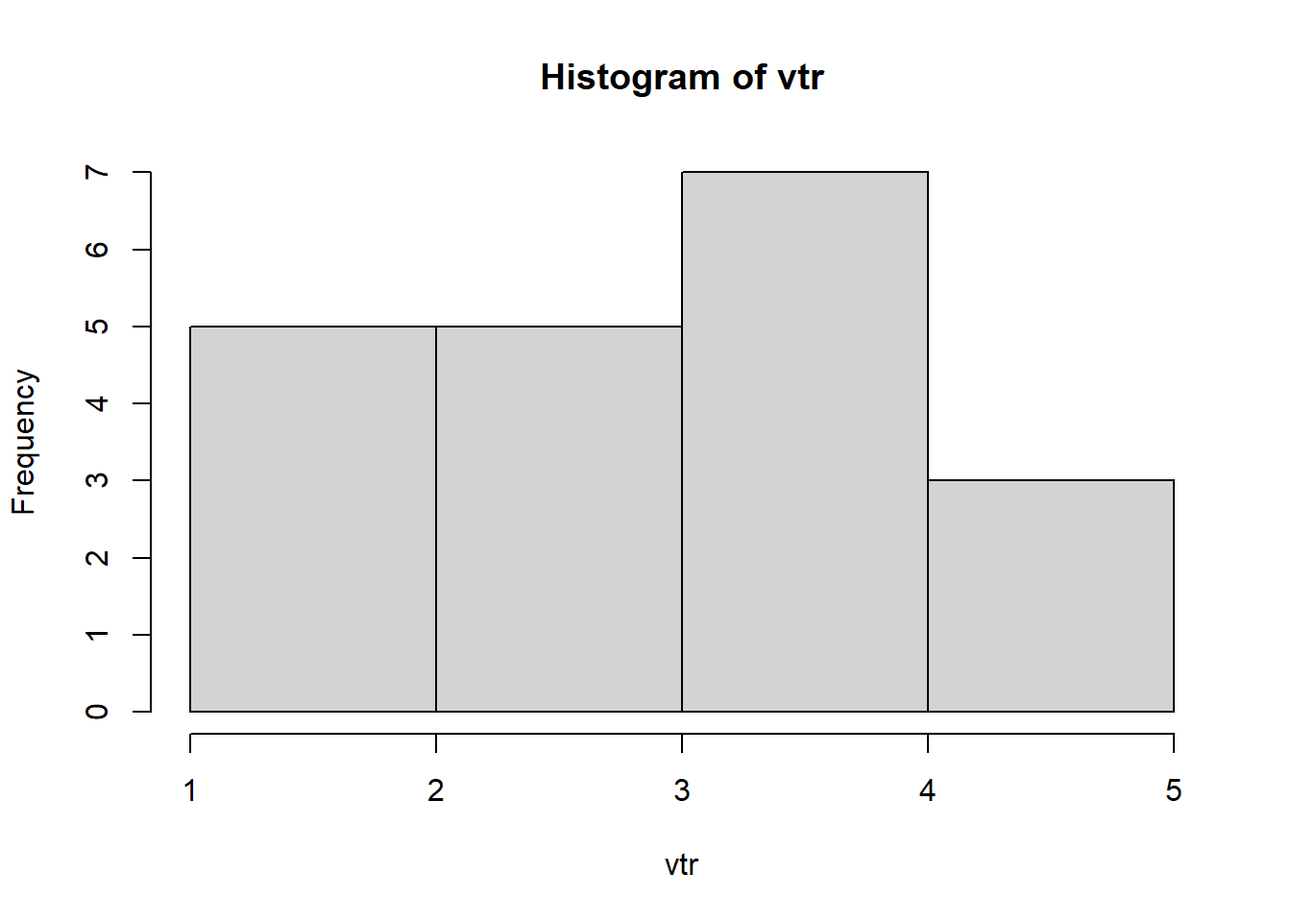
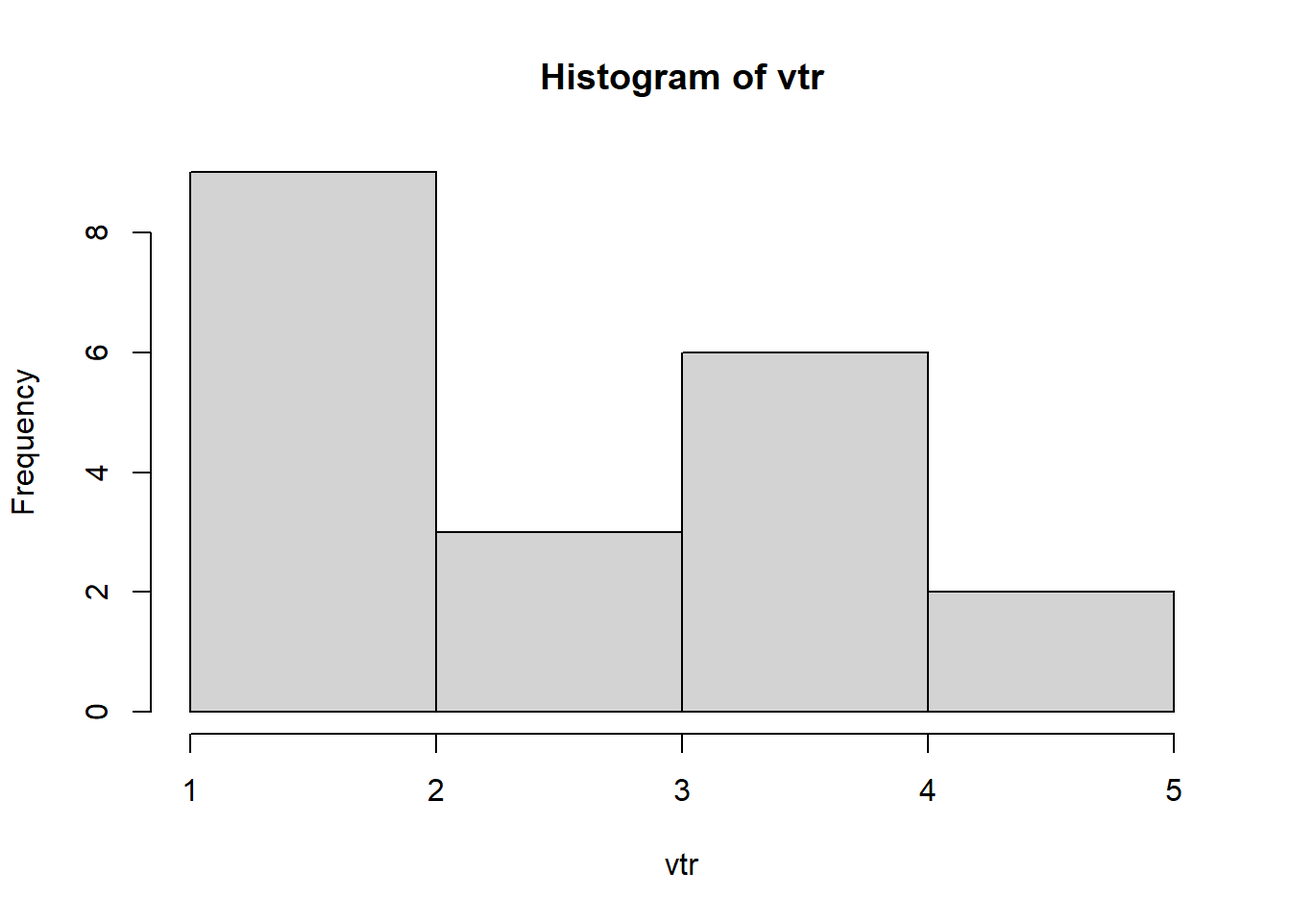
Chapters order changed

diff --git a/chapter3.html b/chapter3.html
@@ -31,8 +31,8 @@
   <meta name="apple-mobile-web-app-status-bar-style" content="black" />
   
   <link rel="shortcut icon" href="favicon.ico" type="image/x-icon" />
-<link rel="prev" href="-e-.html"/>
-
+<link rel="prev" href="chapter2.html"/>
+<link rel="next" href="-e-.html"/>
 <script src="libs/header-attrs-2.7/header-attrs.js"></script>
 <script src="libs/jquery-2.2.3/jquery.min.js"></script>
 <link href="libs/gitbook-2.6.7/css/style.css" rel="stylesheet" />
@@ -190,7 +190,6 @@ code span.wa { color: #8f5902; font-weight: bold; font-style: italic; } /* Warni
 </ul></li>
 <li class="chapter" data-level="2.5" data-path="chapter2.html"><a href="chapter2.html#chapter245"><i class="fa fa-check"></i><b>2.5</b> Введення-виведння даних</a></li>
 </ul></li>
-<li class="chapter" data-level="" data-path="-e-.html"><a href="-e-.html"><i class="fa fa-check"></i>Джeрела</a></li>
 <li class="chapter" data-level="3" data-path="chapter3.html"><a href="chapter3.html"><i class="fa fa-check"></i><b>3</b> Основи роботи з даними в R</a>
 <ul>
 <li class="chapter" data-level="" data-path="chapter3.html"><a href="chapter3.html#план-2"><i class="fa fa-check"></i>План</a></li>
@@ -202,6 +201,7 @@ code span.wa { color: #8f5902; font-weight: bold; font-style: italic; } /* Warni
 <li class="chapter" data-level="3.2.3" data-path="chapter3.html"><a href="chapter3.html#chapter323"><i class="fa fa-check"></i><b>3.2.3</b> Операції над векторами</a></li>
 </ul></li>
 </ul></li>
+<li class="chapter" data-level="" data-path="-e-.html"><a href="-e-.html"><i class="fa fa-check"></i>Джeрела</a></li>
 <li class="divider"></li>
 <li><a href="https://github.com/rstudio/bookdown" target="blank">Створено з bookdown</a></li>
 <li><a href="https://dataclass.org.ua" target="blank">Сайт проекту DataCalss</a></li>  
@@ -258,59 +258,37 @@ code span.wa { color: #8f5902; font-weight: bold; font-style: italic; } /* Warni
 <p>Вектор - базовий тип даних у <code>R</code>, що дозволяє записати колекцію елементів одного типу за допомогою <code>c()</code> або без нього, якщо це послідовність значень.</p>
 <p><em>Примітка. По суті функція <code>c()</code> дозволяє об’єднати кілька векторів.</em></p>
 <p>Розглянемо для прикладу звичайну змінну <code>x</code>:</p>
-<div class="sourceCode" id="cb146"><pre class="sourceCode r"><code class="sourceCode r"><span id="cb146-1"><a href="chapter3.html#cb146-1" aria-hidden="true" tabindex="-1"></a>x <span class="ot">&lt;-</span> <span class="dv">10</span></span></code></pre></div>
+<div class="sourceCode" id="cb145"><pre class="sourceCode r"><code class="sourceCode r"><span id="cb145-1"><a href="chapter3.html#cb145-1" aria-hidden="true" tabindex="-1"></a>x <span class="ot">&lt;-</span> <span class="dv">10</span></span></code></pre></div>
 <p>По своїй суті <code>x</code> у даному випадку є вектором, що складається з одного значення <code>10</code>. Ми можемо також записати кілька елементів у змінну <code>x</code>:</p>
-<div class="sourceCode" id="cb147"><pre class="sourceCode r"><code class="sourceCode r"><span id="cb147-1"><a href="chapter3.html#cb147-1" aria-hidden="true" tabindex="-1"></a>x <span class="ot">&lt;-</span> <span class="fu">c</span>(<span class="dv">1</span>, <span class="dv">2</span>, <span class="fl">2.5</span>, <span class="dv">3</span>)</span>
-<span id="cb147-2"><a href="chapter3.html#cb147-2" aria-hidden="true" tabindex="-1"></a>x</span></code></pre></div>
+<div class="sourceCode" id="cb146"><pre class="sourceCode r"><code class="sourceCode r"><span id="cb146-1"><a href="chapter3.html#cb146-1" aria-hidden="true" tabindex="-1"></a>x <span class="ot">&lt;-</span> <span class="fu">c</span>(<span class="dv">1</span>, <span class="dv">2</span>, <span class="fl">2.5</span>, <span class="dv">3</span>)</span>
+<span id="cb146-2"><a href="chapter3.html#cb146-2" aria-hidden="true" tabindex="-1"></a>x</span></code></pre></div>
 <pre><code>## [1] 1.0 2.0 2.5 3.0</code></pre>
 <p>Елементами вектора можуть бути значення будь якого типу: <code>numeric</code>, <code>character</code>, <code>logical</code> тощо:</p>
-<div class="sourceCode" id="cb149"><pre class="sourceCode r"><code class="sourceCode r"><span id="cb149-1"><a href="chapter3.html#cb149-1" aria-hidden="true" tabindex="-1"></a>v1 <span class="ot">&lt;-</span> <span class="fu">c</span>(<span class="dv">1</span>, <span class="dv">3</span>, <span class="dv">4</span>, <span class="dv">6</span>, <span class="dv">7</span>)</span>
-<span id="cb149-2"><a href="chapter3.html#cb149-2" aria-hidden="true" tabindex="-1"></a>v2 <span class="ot">&lt;-</span> <span class="fu">c</span>(T, F, F, T, F)</span>
-<span id="cb149-3"><a href="chapter3.html#cb149-3" aria-hidden="true" tabindex="-1"></a>v3 <span class="ot">&lt;-</span> <span class="fu">c</span>(<span class="st">&quot;Hello&quot;</span>, <span class="st">&quot;my&quot;</span>, <span class="st">&quot;friend&quot;</span>, <span class="st">&quot;!&quot;</span>)</span></code></pre></div>
+<div class="sourceCode" id="cb148"><pre class="sourceCode r"><code class="sourceCode r"><span id="cb148-1"><a href="chapter3.html#cb148-1" aria-hidden="true" tabindex="-1"></a>v1 <span class="ot">&lt;-</span> <span class="fu">c</span>(<span class="dv">1</span>, <span class="dv">3</span>, <span class="dv">4</span>, <span class="dv">6</span>, <span class="dv">7</span>)</span>
+<span id="cb148-2"><a href="chapter3.html#cb148-2" aria-hidden="true" tabindex="-1"></a>v2 <span class="ot">&lt;-</span> <span class="fu">c</span>(T, F, F, T, F)</span>
+<span id="cb148-3"><a href="chapter3.html#cb148-3" aria-hidden="true" tabindex="-1"></a>v3 <span class="ot">&lt;-</span> <span class="fu">c</span>(<span class="st">&quot;Hello&quot;</span>, <span class="st">&quot;my&quot;</span>, <span class="st">&quot;friend&quot;</span>, <span class="st">&quot;!&quot;</span>)</span></code></pre></div>
 <p>Елементами вектора також послідовності, створені на за допомогою функцій <code>rep()</code>, <code>seq()</code> та оператора <code>:</code>:</p>
-<div class="sourceCode" id="cb150"><pre class="sourceCode r"><code class="sourceCode r"><span id="cb150-1"><a href="chapter3.html#cb150-1" aria-hidden="true" tabindex="-1"></a>vtr <span class="ot">&lt;-</span>  <span class="dv">2</span><span class="sc">:</span><span class="dv">7</span></span>
-<span id="cb150-2"><a href="chapter3.html#cb150-2" aria-hidden="true" tabindex="-1"></a>vtr</span></code></pre></div>
+<div class="sourceCode" id="cb149"><pre class="sourceCode r"><code class="sourceCode r"><span id="cb149-1"><a href="chapter3.html#cb149-1" aria-hidden="true" tabindex="-1"></a>vtr <span class="ot">&lt;-</span>  <span class="dv">2</span><span class="sc">:</span><span class="dv">7</span></span>
+<span id="cb149-2"><a href="chapter3.html#cb149-2" aria-hidden="true" tabindex="-1"></a>vtr</span></code></pre></div>
 <pre><code>## [1] 2 3 4 5 6 7</code></pre>
-<div class="sourceCode" id="cb152"><pre class="sourceCode r"><code class="sourceCode r"><span id="cb152-1"><a href="chapter3.html#cb152-1" aria-hidden="true" tabindex="-1"></a>vtr <span class="ot">&lt;-</span> <span class="dv">7</span><span class="sc">:</span><span class="dv">2</span></span>
-<span id="cb152-2"><a href="chapter3.html#cb152-2" aria-hidden="true" tabindex="-1"></a>vtr</span></code></pre></div>
+<div class="sourceCode" id="cb151"><pre class="sourceCode r"><code class="sourceCode r"><span id="cb151-1"><a href="chapter3.html#cb151-1" aria-hidden="true" tabindex="-1"></a>vtr <span class="ot">&lt;-</span> <span class="dv">7</span><span class="sc">:</span><span class="dv">2</span></span>
+<span id="cb151-2"><a href="chapter3.html#cb151-2" aria-hidden="true" tabindex="-1"></a>vtr</span></code></pre></div>
 <pre><code>## [1] 7 6 5 4 3 2</code></pre>
 <p>Якщо є потреба об’єднати кілька векторів, скористайтеся функцією <code>c()</code>:</p>
-<div class="sourceCode" id="cb154"><pre class="sourceCode r"><code class="sourceCode r"><span id="cb154-1"><a href="chapter3.html#cb154-1" aria-hidden="true" tabindex="-1"></a>x <span class="ot">&lt;-</span> <span class="dv">2</span><span class="sc">:</span><span class="dv">3</span></span>
-<span id="cb154-2"><a href="chapter3.html#cb154-2" aria-hidden="true" tabindex="-1"></a>y <span class="ot">&lt;-</span> <span class="fu">c</span>(<span class="dv">4</span>,<span class="dv">6</span>,<span class="dv">9</span>)</span>
-<span id="cb154-3"><a href="chapter3.html#cb154-3" aria-hidden="true" tabindex="-1"></a>z <span class="ot">&lt;-</span> <span class="fu">c</span>(x, y, <span class="dv">10</span><span class="sc">:</span><span class="dv">12</span>, <span class="dv">100</span>)</span>
-<span id="cb154-4"><a href="chapter3.html#cb154-4" aria-hidden="true" tabindex="-1"></a>z</span></code></pre></div>
+<div class="sourceCode" id="cb153"><pre class="sourceCode r"><code class="sourceCode r"><span id="cb153-1"><a href="chapter3.html#cb153-1" aria-hidden="true" tabindex="-1"></a>x <span class="ot">&lt;-</span> <span class="dv">2</span><span class="sc">:</span><span class="dv">3</span></span>
+<span id="cb153-2"><a href="chapter3.html#cb153-2" aria-hidden="true" tabindex="-1"></a>y <span class="ot">&lt;-</span> <span class="fu">c</span>(<span class="dv">4</span>,<span class="dv">6</span>,<span class="dv">9</span>)</span>
+<span id="cb153-3"><a href="chapter3.html#cb153-3" aria-hidden="true" tabindex="-1"></a>z <span class="ot">&lt;-</span> <span class="fu">c</span>(x, y, <span class="dv">10</span><span class="sc">:</span><span class="dv">12</span>, <span class="dv">100</span>)</span>
+<span id="cb153-4"><a href="chapter3.html#cb153-4" aria-hidden="true" tabindex="-1"></a>z</span></code></pre></div>
 <pre><code>## [1]   2   3   4   6   9  10  11  12 100</code></pre>
 <p>Переглянути коротку описову статистику по вектору можна за допомогою функції <strong><code>summary()</code></strong>:</p>
-<div class="sourceCode" id="cb156"><pre class="sourceCode r"><code class="sourceCode r"><span id="cb156-1"><a href="chapter3.html#cb156-1" aria-hidden="true" tabindex="-1"></a><span class="fu">summary</span>(z)</span></code></pre></div>
+<div class="sourceCode" id="cb155"><pre class="sourceCode r"><code class="sourceCode r"><span id="cb155-1"><a href="chapter3.html#cb155-1" aria-hidden="true" tabindex="-1"></a><span class="fu">summary</span>(z)</span></code></pre></div>
 <pre><code>##    Min. 1st Qu.  Median    Mean 3rd Qu.    Max. 
 ##    2.00    4.00    9.00   17.44   11.00  100.00</code></pre>
 </div>
 <div id="chapter323" class="section level3" number="3.2.3">
 <h3><span class="header-section-number">3.2.3</span> Операції над векторами</h3>
 
-<div id="refs" class="references csl-bib-body hanging-indent">
-<div id="ref-Anaconda-site" class="csl-entry">
-<em>Anaconda. The World’s Most Popular Data Science Platform</em>. 2021. 206 379 Broadway Ave., Suite 310 New York, NY 10013, USA: Anaconda Inc. <a href="https://www.anaconda.com/">https://www.anaconda.com/</a>.
-</div>
-<div id="ref-google-collab" class="csl-entry">
-<em>Google Colaboratory</em>. 2021. Google LLC. <a href="https://colab.research.google.com/">https://colab.research.google.com/</a>.
-</div>
-<div id="ref-R-base" class="csl-entry">
-R Core Team. 2020. <em>R: A Language and Environment for Statistical Computing</em>. Vienna, Austria: R Foundation for Statistical Computing. <a href="https://www.R-project.org/">https://www.R-project.org/</a>.
-</div>
-<div id="ref-R-studio-site" class="csl-entry">
-<em>RStudio Official Website</em>. 2021. 250 Northern Ave, Boston, MA 02210: RStudio, PBC. <a href="https://rstudio.com/">https://rstudio.com/</a>.
-</div>
-<div id="ref-vs-code" class="csl-entry">
-<em>Visual Studio Code</em>. 2021. Microsoft. <a href="https://code.visualstudio.com/">https://code.visualstudio.com/</a>.
-</div>
-<div id="ref-visual-studio" class="csl-entry">
-<em>Visual Studio Community Edition</em>. 2021. Microsoft. <a href="https://visualstudio.microsoft.com/">https://visualstudio.microsoft.com/</a>.
-</div>
-<div id="ref-R-stats-book" class="csl-entry">
-А.Б. Шипунов, Е.М. Балдин, П.А. Волкова, А.И. Коробейников, С.А. Назарова, С.В. Петров, В.Г. Суфиянов. 2012. <em>Наглядная статистика. Используем r!</em> Москва, Росія: ДМК Пресс.
-</div>
-</div>
+<div class="sourceCode" id="cb157"><pre class="sourceCode r"><code class="sourceCode r"><span id="cb157-1"><a href="chapter3.html#cb157-1" aria-hidden="true" tabindex="-1"></a><span class="fu">Sys.setlocale</span>(<span class="st">&quot;LC_CTYPE&quot;</span>, <span class="st">&quot;ukrainian&quot;</span>)</span></code></pre></div>
 </div>
 </div>
 </div>
@@ -319,8 +297,8 @@ R Core Team. 2020. <em>R: A Language and Environment for Statistical Computing</
           </div>
         </div>
       </div>
-<a href="-e-.html" class="navigation navigation-prev navigation-unique" aria-label="Previous page"><i class="fa fa-angle-left"></i></a>
-
+<a href="chapter2.html" class="navigation navigation-prev " aria-label="Previous page"><i class="fa fa-angle-left"></i></a>
+<a href="-e-.html" class="navigation navigation-next " aria-label="Next page"><i class="fa fa-angle-right"></i></a>
     </div>
   </div>
 <script src="libs/gitbook-2.6.7/js/app.min.js"></script>

diff --git a/chapter2.html b/chapter2.html
@@ -32,7 +32,7 @@
   
   <link rel="shortcut icon" href="favicon.ico" type="image/x-icon" />
 <link rel="prev" href="chapter1.html"/>
-<link rel="next" href="-e-.html"/>
+<link rel="next" href="chapter3.html"/>
 <script src="libs/header-attrs-2.7/header-attrs.js"></script>
 <script src="libs/jquery-2.2.3/jquery.min.js"></script>
 <link href="libs/gitbook-2.6.7/css/style.css" rel="stylesheet" />
@@ -190,7 +190,6 @@ code span.wa { color: #8f5902; font-weight: bold; font-style: italic; } /* Warni
 </ul></li>
 <li class="chapter" data-level="2.5" data-path="chapter2.html"><a href="chapter2.html#chapter245"><i class="fa fa-check"></i><b>2.5</b> Введення-виведння даних</a></li>
 </ul></li>
-<li class="chapter" data-level="" data-path="-e-.html"><a href="-e-.html"><i class="fa fa-check"></i>Джeрела</a></li>
 <li class="chapter" data-level="3" data-path="chapter3.html"><a href="chapter3.html"><i class="fa fa-check"></i><b>3</b> Основи роботи з даними в R</a>
 <ul>
 <li class="chapter" data-level="" data-path="chapter3.html"><a href="chapter3.html#план-2"><i class="fa fa-check"></i>План</a></li>
@@ -202,6 +201,7 @@ code span.wa { color: #8f5902; font-weight: bold; font-style: italic; } /* Warni
 <li class="chapter" data-level="3.2.3" data-path="chapter3.html"><a href="chapter3.html#chapter323"><i class="fa fa-check"></i><b>3.2.3</b> Операції над векторами</a></li>
 </ul></li>
 </ul></li>
+<li class="chapter" data-level="" data-path="-e-.html"><a href="-e-.html"><i class="fa fa-check"></i>Джeрела</a></li>
 <li class="divider"></li>
 <li><a href="https://github.com/rstudio/bookdown" target="blank">Створено з bookdown</a></li>
 <li><a href="https://dataclass.org.ua" target="blank">Сайт проекту DataCalss</a></li>  
@@ -684,15 +684,15 @@ code span.wa { color: #8f5902; font-weight: bold; font-style: italic; } /* Warni
 Матеріали розділу у процесі підготовки.</p>
 </div>
 <div class="sourceCode" id="cb141"><pre class="sourceCode r"><code class="sourceCode r"><span id="cb141-1"><a href="chapter2.html#cb141-1" aria-hidden="true" tabindex="-1"></a><span class="fu">runif</span>(<span class="dv">10</span>)</span></code></pre></div>
-<pre><code>##  [1] 0.3451229 0.1065903 0.9808640 0.1566558 0.4934627 0.4577822 0.5327003
-##  [8] 0.6654876 0.3345945 0.5321607</code></pre>
+<pre><code>##  [1] 0.54787446 0.90018896 0.68996329 0.07201282 0.48729217 0.21616782
+##  [7] 0.42049792 0.24651711 0.64148890 0.46117749</code></pre>
 <div class="sourceCode" id="cb143"><pre class="sourceCode r"><code class="sourceCode r"><span id="cb143-1"><a href="chapter2.html#cb143-1" aria-hidden="true" tabindex="-1"></a><span class="fu">sample</span>(<span class="dv">100</span>)</span></code></pre></div>
-<pre><code>##   [1]  77  98  46  97   4  24   2   3  11  81  89  14  58  40  44  90  21  18
-##  [19]  38  86  79  34  28  83  15  99  63  35  73  76  54   5 100  16  52  74
-##  [37]  85  43  19  42  49  61  62  96   6  10  57  59  51  67  12  92  31  41
-##  [55]  70  17  22  50  72  25  45  60  13  84   8  33  80   1  88  20  23  30
-##  [73]  47  29  56  32  66  27   7  37  55  68  53  82   9  78  95  75  69  87
-##  [91]  93  94  64  48  26  91  39  36  71  65</code></pre>
+<pre><code>##   [1]  30   8  20  60  56  86  54  18  95  45  37  61  44  74   2  39  14  94
+##  [19]  78  65  33  59  67  22  96  88   3  99  21   6   9  47  76  93  91  34
+##  [37]  83  19  89  36  92  69  58  62  51  11  85   5  17  53  90  12  28  64
+##  [55]  41  35  24  23  32  27  97  72 100  31  48  87  84  25  63  46  26  15
+##  [73]  43  29  40  70  75  49   7  57  82  66  77   1  42   4  55  71  80  68
+##  [91]  98  10  16  52  50  38  81  73  13  79</code></pre>
 </div>
 <div id="chapter244" class="section level3" number="2.4.4">
 <h3><span class="header-section-number">2.4.4</span> Інші математичні функції та константи R</h3>
@@ -743,7 +743,6 @@ code span.wa { color: #8f5902; font-weight: bold; font-style: italic; } /* Warni
 Матеріали розділу у процесі підготовки.</p>
 </div>
 
-<div class="sourceCode" id="cb145"><pre class="sourceCode r"><code class="sourceCode r"><span id="cb145-1"><a href="chapter2.html#cb145-1" aria-hidden="true" tabindex="-1"></a><span class="fu">Sys.setlocale</span>(<span class="st">&quot;LC_CTYPE&quot;</span>, <span class="st">&quot;ukrainian&quot;</span>)</span></code></pre></div>
 </div>
 </div>
             </section>
@@ -752,7 +751,7 @@ code span.wa { color: #8f5902; font-weight: bold; font-style: italic; } /* Warni
         </div>
       </div>
 <a href="chapter1.html" class="navigation navigation-prev " aria-label="Previous page"><i class="fa fa-angle-left"></i></a>
-<a href="-e-.html" class="navigation navigation-next " aria-label="Next page"><i class="fa fa-angle-right"></i></a>
+<a href="chapter3.html" class="navigation navigation-next " aria-label="Next page"><i class="fa fa-angle-right"></i></a>
     </div>
   </div>
 <script src="libs/gitbook-2.6.7/js/app.min.js"></script>

diff --git a/-e-.html b/-e-.html
@@ -31,8 +31,8 @@
   <meta name="apple-mobile-web-app-status-bar-style" content="black" />
   
   <link rel="shortcut icon" href="favicon.ico" type="image/x-icon" />
-<link rel="prev" href="chapter2.html"/>
-<link rel="next" href="chapter3.html"/>
+<link rel="prev" href="chapter3.html"/>
+
 <script src="libs/header-attrs-2.7/header-attrs.js"></script>
 <script src="libs/jquery-2.2.3/jquery.min.js"></script>
 <link href="libs/gitbook-2.6.7/css/style.css" rel="stylesheet" />
@@ -190,7 +190,6 @@ code span.wa { color: #8f5902; font-weight: bold; font-style: italic; } /* Warni
 </ul></li>
 <li class="chapter" data-level="2.5" data-path="chapter2.html"><a href="chapter2.html#chapter245"><i class="fa fa-check"></i><b>2.5</b> Введення-виведння даних</a></li>
 </ul></li>
-<li class="chapter" data-level="" data-path="-e-.html"><a href="-e-.html"><i class="fa fa-check"></i>Джeрела</a></li>
 <li class="chapter" data-level="3" data-path="chapter3.html"><a href="chapter3.html"><i class="fa fa-check"></i><b>3</b> Основи роботи з даними в R</a>
 <ul>
 <li class="chapter" data-level="" data-path="chapter3.html"><a href="chapter3.html#план-2"><i class="fa fa-check"></i>План</a></li>
@@ -202,6 +201,7 @@ code span.wa { color: #8f5902; font-weight: bold; font-style: italic; } /* Warni
 <li class="chapter" data-level="3.2.3" data-path="chapter3.html"><a href="chapter3.html#chapter323"><i class="fa fa-check"></i><b>3.2.3</b> Операції над векторами</a></li>
 </ul></li>
 </ul></li>
+<li class="chapter" data-level="" data-path="-e-.html"><a href="-e-.html"><i class="fa fa-check"></i>Джeрела</a></li>
 <li class="divider"></li>
 <li><a href="https://github.com/rstudio/bookdown" target="blank">Створено з bookdown</a></li>
 <li><a href="https://dataclass.org.ua" target="blank">Сайт проекту DataCalss</a></li>  
@@ -227,14 +227,37 @@ code span.wa { color: #8f5902; font-weight: bold; font-style: italic; } /* Warni
 <div id="джeрела" class="section level1 unnumbered">
 <h1>Джeрела</h1>
 
+<div id="refs" class="references csl-bib-body hanging-indent">
+<div id="ref-Anaconda-site" class="csl-entry">
+<em>Anaconda. The World’s Most Popular Data Science Platform</em>. 2021. 206 379 Broadway Ave., Suite 310 New York, NY 10013, USA: Anaconda Inc. <a href="https://www.anaconda.com/">https://www.anaconda.com/</a>.
+</div>
+<div id="ref-google-collab" class="csl-entry">
+<em>Google Colaboratory</em>. 2021. Google LLC. <a href="https://colab.research.google.com/">https://colab.research.google.com/</a>.
+</div>
+<div id="ref-R-base" class="csl-entry">
+R Core Team. 2020. <em>R: A Language and Environment for Statistical Computing</em>. Vienna, Austria: R Foundation for Statistical Computing. <a href="https://www.R-project.org/">https://www.R-project.org/</a>.
+</div>
+<div id="ref-R-studio-site" class="csl-entry">
+<em>RStudio Official Website</em>. 2021. 250 Northern Ave, Boston, MA 02210: RStudio, PBC. <a href="https://rstudio.com/">https://rstudio.com/</a>.
+</div>
+<div id="ref-vs-code" class="csl-entry">
+<em>Visual Studio Code</em>. 2021. Microsoft. <a href="https://code.visualstudio.com/">https://code.visualstudio.com/</a>.
+</div>
+<div id="ref-visual-studio" class="csl-entry">
+<em>Visual Studio Community Edition</em>. 2021. Microsoft. <a href="https://visualstudio.microsoft.com/">https://visualstudio.microsoft.com/</a>.
+</div>
+<div id="ref-R-stats-book" class="csl-entry">
+А.Б. Шипунов, Е.М. Балдин, П.А. Волкова, А.И. Коробейников, С.А. Назарова, С.В. Петров, В.Г. Суфиянов. 2012. <em>Наглядная статистика. Используем r!</em> Москва, Росія: ДМК Пресс.
+</div>
+</div>
 </div>
             </section>
 
           </div>
         </div>
       </div>
-<a href="chapter2.html" class="navigation navigation-prev " aria-label="Previous page"><i class="fa fa-angle-left"></i></a>
-<a href="chapter3.html" class="navigation navigation-next " aria-label="Next page"><i class="fa fa-angle-right"></i></a>
+<a href="chapter3.html" class="navigation navigation-prev navigation-unique" aria-label="Previous page"><i class="fa fa-angle-left"></i></a>
+
     </div>
   </div>
 <script src="libs/gitbook-2.6.7/js/app.min.js"></script>

diff --git a/index.html b/index.html
@@ -190,7 +190,6 @@ code span.wa { color: #8f5902; font-weight: bold; font-style: italic; } /* Warni
 </ul></li>
 <li class="chapter" data-level="2.5" data-path="chapter2.html"><a href="chapter2.html#chapter245"><i class="fa fa-check"></i><b>2.5</b> Введення-виведння даних</a></li>
 </ul></li>
-<li class="chapter" data-level="" data-path="-e-.html"><a href="-e-.html"><i class="fa fa-check"></i>Джeрела</a></li>
 <li class="chapter" data-level="3" data-path="chapter3.html"><a href="chapter3.html"><i class="fa fa-check"></i><b>3</b> Основи роботи з даними в R</a>
 <ul>
 <li class="chapter" data-level="" data-path="chapter3.html"><a href="chapter3.html#план-2"><i class="fa fa-check"></i>План</a></li>
@@ -202,6 +201,7 @@ code span.wa { color: #8f5902; font-weight: bold; font-style: italic; } /* Warni
 <li class="chapter" data-level="3.2.3" data-path="chapter3.html"><a href="chapter3.html#chapter323"><i class="fa fa-check"></i><b>3.2.3</b> Операції над векторами</a></li>
 </ul></li>
 </ul></li>
+<li class="chapter" data-level="" data-path="-e-.html"><a href="-e-.html"><i class="fa fa-check"></i>Джeрела</a></li>
 <li class="divider"></li>
 <li><a href="https://github.com/rstudio/bookdown" target="blank">Створено з bookdown</a></li>
 <li><a href="https://dataclass.org.ua" target="blank">Сайт проекту DataCalss</a></li>  

diff --git a/01-chapter1.md b/01-chapter1.md
@@ -259,15 +259,15 @@ dir()
 ```
 
 ```
-##  [1] "_bookdown.yml"          "_bookdown_files"        "_output.yml"           
-##  [4] "01-chapter1.Rmd"        "01-chapter1_files"      "01-intro_files"        
-##  [7] "02-chapter2.Rmd"        "02-chapter2_files"      "02-references.Rmd"     
-## [10] "03-chapter3.Rmd"        "book.bib"               "css"                   
-## [13] "favicon.ico"            "images"                 "inc"                   
-## [16] "index.md"               "index.Rmd"              "index.utf8.md"         
-## [19] "packages.bib"           "preamble.tex"           "r-intro.rds"           
-## [22] "README.md"              "render_commands"        "render181c26b22fd6.rds"
-## [25] "RIntro.Rproj"           "tmp.RData"
+##  [1] "_bookdown.yml"         "_bookdown_files"       "_output.yml"          
+##  [4] "01-chapter1.Rmd"       "01-chapter1_files"     "01-intro_files"       
+##  [7] "02-chapter2.Rmd"       "02-chapter2_files"     "03-chapter3.Rmd"      
+## [10] "04-references.Rmd"     "book.bib"              "css"                  
+## [13] "favicon.ico"           "images"                "inc"                  
+## [16] "index.md"              "index.Rmd"             "index.utf8.md"        
+## [19] "packages.bib"          "preamble.tex"          "r-intro.rds"          
+## [22] "README.md"             "render_commands"       "render26b8e1c5893.rds"
+## [25] "RIntro.Rproj"          "tmp.RData"
 ```
 
 ```r
@@ -275,15 +275,15 @@ list.files()
 ```
 
 ```
-##  [1] "_bookdown.yml"          "_bookdown_files"        "_output.yml"           
-##  [4] "01-chapter1.Rmd"        "01-chapter1_files"      "01-intro_files"        
-##  [7] "02-chapter2.Rmd"        "02-chapter2_files"      "02-references.Rmd"     
-## [10] "03-chapter3.Rmd"        "book.bib"               "css"                   
-## [13] "favicon.ico"            "images"                 "inc"                   
-## [16] "index.md"               "index.Rmd"              "index.utf8.md"         
-## [19] "packages.bib"           "preamble.tex"           "r-intro.rds"           
-## [22] "README.md"              "render_commands"        "render181c26b22fd6.rds"
-## [25] "RIntro.Rproj"           "tmp.RData"
+##  [1] "_bookdown.yml"         "_bookdown_files"       "_output.yml"          
+##  [4] "01-chapter1.Rmd"       "01-chapter1_files"     "01-intro_files"       
+##  [7] "02-chapter2.Rmd"       "02-chapter2_files"     "03-chapter3.Rmd"      
+## [10] "04-references.Rmd"     "book.bib"              "css"                  
+## [13] "favicon.ico"           "images"                "inc"                  
+## [16] "index.md"              "index.Rmd"             "index.utf8.md"        
+## [19] "packages.bib"          "preamble.tex"          "r-intro.rds"          
+## [22] "README.md"             "render_commands"       "render26b8e1c5893.rds"
+## [25] "RIntro.Rproj"          "tmp.RData"
 ```
 
 #### Допомога (help/?) {#chapter1315}
@@ -394,7 +394,7 @@ vtr
 ```
 
 ```
-##  [1] 5 3 4 2 4 4 5 3 1 3 4 4 4 3 5 2 4 2 1 3
+##  [1] 1 3 2 2 4 4 4 3 5 2 4 4 1 2 2 5 1 1 3 4
 ```
 
 <div class="alert alert-danger">
@@ -415,7 +415,7 @@ print(paste0("Sum: ", vtr_sum))
 ```
 
 ```
-## [1] "Sum: 66"
+## [1] "Sum: 57"
 ```
 
 ```r
@@ -423,7 +423,7 @@ print(paste0("Mean: ", vtr_mean))
 ```
 
 ```
-## [1] "Mean: 3.3"
+## [1] "Mean: 2.85"
 ```
 
 Виведемо гістограму:

diff --git a/02-chapter2.md b/02-chapter2.md
@@ -772,8 +772,8 @@ runif(10)
 ```
 
 ```
-##  [1] 0.3451229 0.1065903 0.9808640 0.1566558 0.4934627 0.4577822 0.5327003
-##  [8] 0.6654876 0.3345945 0.5321607
+##  [1] 0.54787446 0.90018896 0.68996329 0.07201282 0.48729217 0.21616782
+##  [7] 0.42049792 0.24651711 0.64148890 0.46117749
 ```
 
 ```r
@@ -781,12 +781,12 @@ sample(100)
 ```
 
 ```
-##   [1]  77  98  46  97   4  24   2   3  11  81  89  14  58  40  44  90  21  18
-##  [19]  38  86  79  34  28  83  15  99  63  35  73  76  54   5 100  16  52  74
-##  [37]  85  43  19  42  49  61  62  96   6  10  57  59  51  67  12  92  31  41
-##  [55]  70  17  22  50  72  25  45  60  13  84   8  33  80   1  88  20  23  30
-##  [73]  47  29  56  32  66  27   7  37  55  68  53  82   9  78  95  75  69  87
-##  [91]  93  94  64  48  26  91  39  36  71  65
+##   [1]  30   8  20  60  56  86  54  18  95  45  37  61  44  74   2  39  14  94
+##  [19]  78  65  33  59  67  22  96  88   3  99  21   6   9  47  76  93  91  34
+##  [37]  83  19  89  36  92  69  58  62  51  11  85   5  17  53  90  12  28  64
+##  [55]  41  35  24  23  32  27  97  72 100  31  48  87  84  25  63  46  26  15
+##  [73]  43  29  40  70  75  49   7  57  82  66  77   1  42   4  55  71  80  68
+##  [91]  98  10  16  52  50  38  81  73  13  79
 ```
 
 ### Інші математичні функції та константи R {#chapter244}

diff --git a/04-references.md b/04-references.md
@@ -1,0 +1,5 @@
+```r
+Sys.setlocale("LC_CTYPE", "ukrainian")
+```
+
+# Джeрела {-}
